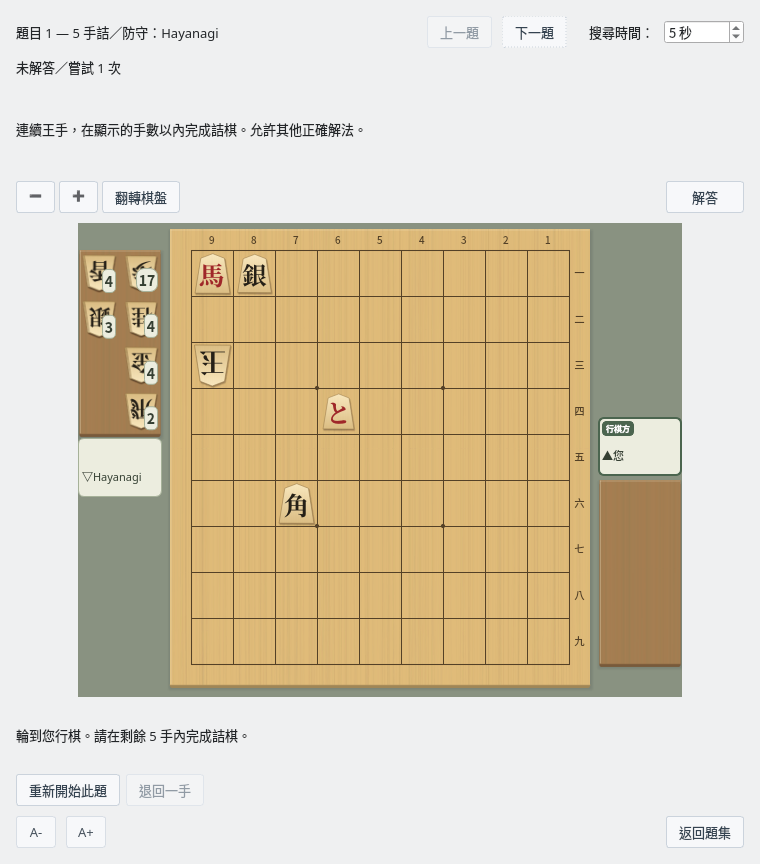
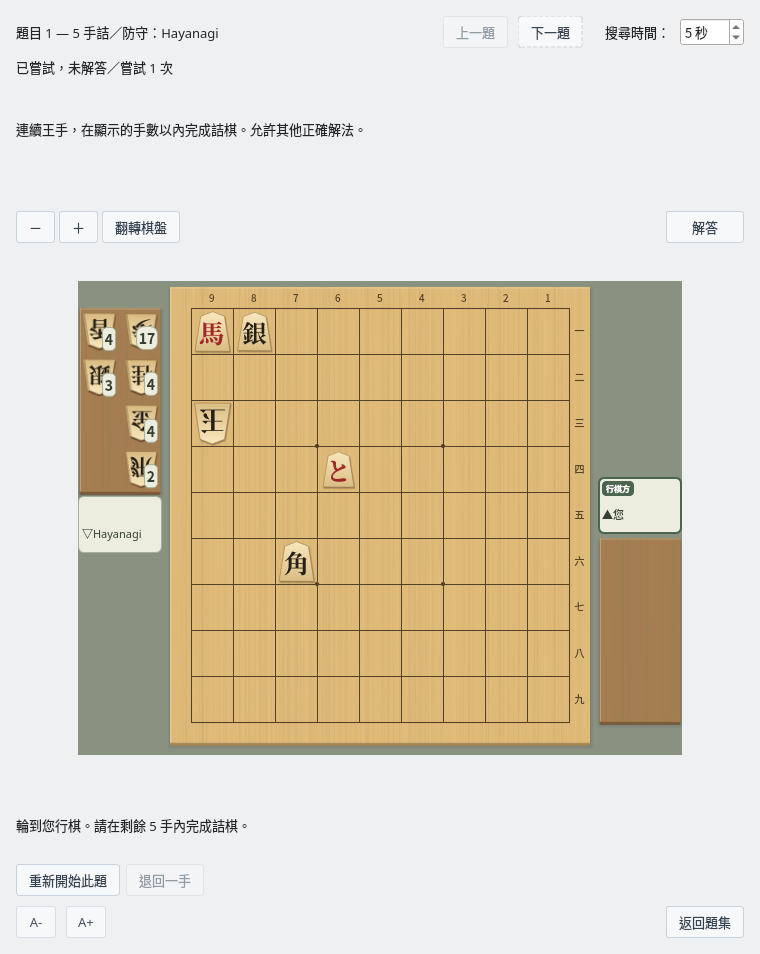
詰将棋を解く画面の画像を4言語で撮り直す
詰将棋を解く画面の挑戦状況の文を問題一覧の札にそろえた（4bd1a4f7）ので、写っている「未正答 ／
挑戦1回」が今の画面（「挑戦済み・未正答 ／ 挑戦1回」）と合わなくなった。

- 詰将棋対局のガイド（第1問）とホーム（第2問）の画像を、前回と同じ5手詰の問題集（20261001版）で
  日本語・英語・簡体字・繁体字それぞれ撮り直した（計8枚）
- ダイアログの高さが前回の撮影（10/06）より高くなっていた（864 → 954、英語は 856 → 949。
  2026.10.23 版でも同じ高さ）ので、ガイドの4ページの <img> の高さを直し、ホームの4言語を
  gen_home.py で作り直した

diff --git a/docs/guide/tsume-play.html b/docs/guide/tsume-play.html
@@ -141,7 +141,7 @@
                 <p class="guide-step-text">ユーザーが攻方を担当します。駒と移動先を順にクリックするか、駒をドラッグして指してください。持駒を打つ操作や、成り・不成の選択もできます。正しい王手を指すと玉方が応手を指し、あなたの次の手番になります。</p>
                 <p class="guide-step-text">参考手順と一致するかだけでなく、表示された残り手数以内に詰ませられるかを判定します。成立する別解も正解として扱います。</p>
                 <div class="screenshot-item">
-                    <img src="../images/tsume-play/tsume-play.png" alt="詰将棋対局画面。5手詰の盤面と残り手数、前後の問題への移動、盤面操作、正解手順、一覧に戻るボタン" width="760" height="864" loading="lazy">
+                    <img src="../images/tsume-play/tsume-play.png" alt="詰将棋対局画面。5手詰の盤面と残り手数、前後の問題への移動、盤面操作、正解手順、一覧に戻るボタン" width="760" height="954" loading="lazy">
                     <p class="screenshot-caption">対局画面：攻方はあなた、玉方はHayanagi。残り手数を確認しながら着手</p>
                 </div>
             </div>

diff --git a/docs/zh-tw/guide/tsume-play.html b/docs/zh-tw/guide/tsume-play.html
@@ -142,7 +142,7 @@
                 <p class="guide-step-text">由您擔任攻方。依序按一下棋子和目標位置，或拖曳棋子來走子。也可以打入持駒，並選擇升變或不升變。走出正確的王手後，防守方會下應手，然後又輪到您。</p>
                 <p class="guide-step-text">判定的依據不只是是否與參考變化一致，而是能否在顯示的剩餘手數以內將死。成立的其他解法也會被視為正確。</p>
                 <div class="screenshot-item">
-                    <img src="../../images/zh-tw/tsume-play/tsume-play.png" alt="詰棋練習畫面。5 手詰的棋盤與剩餘手數，以及移動到前後題目、棋盤操作、解答、返回題集的按鈕" width="760" height="864" loading="lazy">
+                    <img src="../../images/zh-tw/tsume-play/tsume-play.png" alt="詰棋練習畫面。5 手詰的棋盤與剩餘手數，以及移動到前後題目、棋盤操作、解答、返回題集的按鈕" width="760" height="954" loading="lazy">
                     <p class="screenshot-caption">練習畫面：您是攻方，Hayanagi 是防守方。一邊確認剩餘手數一邊走子</p>
                 </div>
             </div>

diff --git a/docs/zh-cn/guide/tsume-play.html b/docs/zh-cn/guide/tsume-play.html
@@ -142,7 +142,7 @@
                 <p class="guide-step-text">由您担任攻方。依次点击棋子和目标位置，或拖动棋子来走子。也可以打入持驹，并选择升变或不升变。走出正确的王手后，防守方会下应手，然后又轮到您。</p>
                 <p class="guide-step-text">判定的依据不只是是否与参考变化一致，而是能否在显示的剩余手数以内将死。成立的其他解法也会被视为正确。</p>
                 <div class="screenshot-item">
-                    <img src="../../images/zh-cn/tsume-play/tsume-play.png" alt="诘棋练习画面。5 手诘的棋盘与剩余手数，以及移动到前后题目、棋盘操作、解答、返回题集的按钮" width="760" height="864" loading="lazy">
+                    <img src="../../images/zh-cn/tsume-play/tsume-play.png" alt="诘棋练习画面。5 手诘的棋盘与剩余手数，以及移动到前后题目、棋盘操作、解答、返回题集的按钮" width="760" height="954" loading="lazy">
                     <p class="screenshot-caption">练习画面：您是攻方，Hayanagi 是防守方。一边确认剩余手数一边走子</p>
                 </div>
             </div>

diff --git a/docs/en/guide/tsume-play.html b/docs/en/guide/tsume-play.html
@@ -142,7 +142,7 @@
                 <p class="guide-step-text">You play the attacker. Click a piece and its destination, or drag the piece to move it. You can also drop pieces from hand and choose whether to promote. After a correct checking move, the defender replies and it becomes your turn again.</p>
                 <p class="guide-step-text">Moves are judged by whether they lead to mate within the remaining number of plies, rather than just matching a reference line. Valid alternative solutions are accepted.</p>
                 <div class="screenshot-item">
-                    <img src="../../images/en/tsume-play/tsume-play.png" alt="Play window with a mate-in-five position, remaining plies, board controls, and Solution button" width="760" height="856" loading="lazy">
+                    <img src="../../images/en/tsume-play/tsume-play.png" alt="Play window with a mate-in-five position, remaining plies, board controls, and Solution button" width="760" height="949" loading="lazy">
                     <p class="screenshot-caption">You attack and Hayanagi defends; watch the remaining number of plies as you play</p>
                 </div>
             </div>

diff --git a/docs/en/index.html b/docs/en/index.html
@@ -208,7 +208,7 @@
             <figure class="shot">
                 <div class="shot-stack">
                     <a href="../images/en/home/tsume-list.png" class="shot-stack__back"><img src="../images/en/home/tsume-list.png" alt="Tsume shogi puzzle list showing mate-in-5 puzzles as board cards" width="1100" height="800" loading="lazy"></a>
-                    <a href="../images/en/home/tsume-play.png" class="shot-stack__front"><img src="../images/en/home/tsume-play.png" alt="Tsume Shogi Play window where you attack the king defended by Hayanagi" width="760" height="856" loading="lazy"></a>
+                    <a href="../images/en/home/tsume-play.png" class="shot-stack__front"><img src="../images/en/home/tsume-play.png" alt="Tsume Shogi Play window where you attack the king defended by Hayanagi" width="760" height="949" loading="lazy"></a>
                 </div>
                 <figcaption>The puzzle list (back) and the Tsume Shogi Play window (front)</figcaption>
             </figure>

diff --git a/docs/index.html b/docs/index.html
@@ -208,7 +208,7 @@
             <figure class="shot">
                 <div class="shot-stack">
                     <a href="images/home/tsume-list.png" class="shot-stack__back"><img src="images/home/tsume-list.png" alt="詰将棋の問題一覧。5手詰の問題が初期盤面のカードで並んでいる" width="1100" height="800" loading="lazy"></a>
-                    <a href="images/home/tsume-play.png" class="shot-stack__front"><img src="images/home/tsume-play.png" alt="詰将棋対局の画面。攻方のあなたがHayanagiの玉を詰ませる" width="760" height="864" loading="lazy"></a>
+                    <a href="images/home/tsume-play.png" class="shot-stack__front"><img src="images/home/tsume-play.png" alt="詰将棋対局の画面。攻方のあなたがHayanagiの玉を詰ませる" width="760" height="954" loading="lazy"></a>
                 </div>
                 <figcaption>問題一覧（奥）と詰将棋対局の画面（手前）</figcaption>
             </figure>

diff --git a/docs/zh-cn/index.html b/docs/zh-cn/index.html
@@ -208,7 +208,7 @@
             <figure class="shot">
                 <div class="shot-stack">
                     <a href="../images/zh-cn/home/tsume-list.png" class="shot-stack__back"><img src="../images/zh-cn/home/tsume-list.png" alt="诘棋题集列表，以棋盘卡片显示 5 手诘题目" width="1100" height="800" loading="lazy"></a>
-                    <a href="../images/zh-cn/home/tsume-play.png" class="shot-stack__front"><img src="../images/zh-cn/home/tsume-play.png" alt="诘棋练习窗口，由你作为攻方将死 Hayanagi 防守的玉" width="760" height="864" loading="lazy"></a>
+                    <a href="../images/zh-cn/home/tsume-play.png" class="shot-stack__front"><img src="../images/zh-cn/home/tsume-play.png" alt="诘棋练习窗口，由你作为攻方将死 Hayanagi 防守的玉" width="760" height="954" loading="lazy"></a>
                 </div>
                 <figcaption>题目列表（后）与诘棋练习窗口（前）</figcaption>
             </figure>

diff --git a/docs/zh-tw/index.html b/docs/zh-tw/index.html
@@ -208,7 +208,7 @@
             <figure class="shot">
                 <div class="shot-stack">
                     <a href="../images/zh-tw/home/tsume-list.png" class="shot-stack__back"><img src="../images/zh-tw/home/tsume-list.png" alt="詰棋題集列表，以棋盤卡片顯示 5 手詰題目" width="1100" height="800" loading="lazy"></a>
-                    <a href="../images/zh-tw/home/tsume-play.png" class="shot-stack__front"><img src="../images/zh-tw/home/tsume-play.png" alt="詰棋練習視窗，由你擔任攻方將死 Hayanagi 防守的玉" width="760" height="864" loading="lazy"></a>
+                    <a href="../images/zh-tw/home/tsume-play.png" class="shot-stack__front"><img src="../images/zh-tw/home/tsume-play.png" alt="詰棋練習視窗，由你擔任攻方將死 Hayanagi 防守的玉" width="760" height="954" loading="lazy"></a>
                 </div>
                 <figcaption>題目列表（後）與詰棋練習視窗（前）</figcaption>
             </figure>
